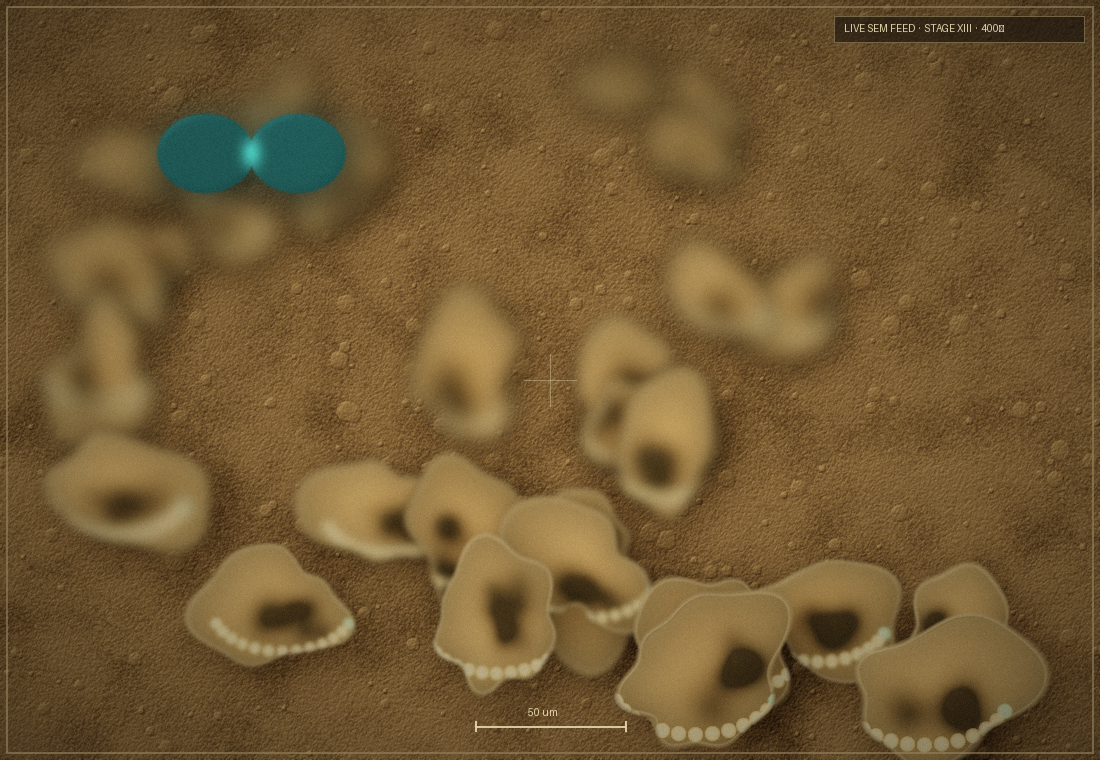
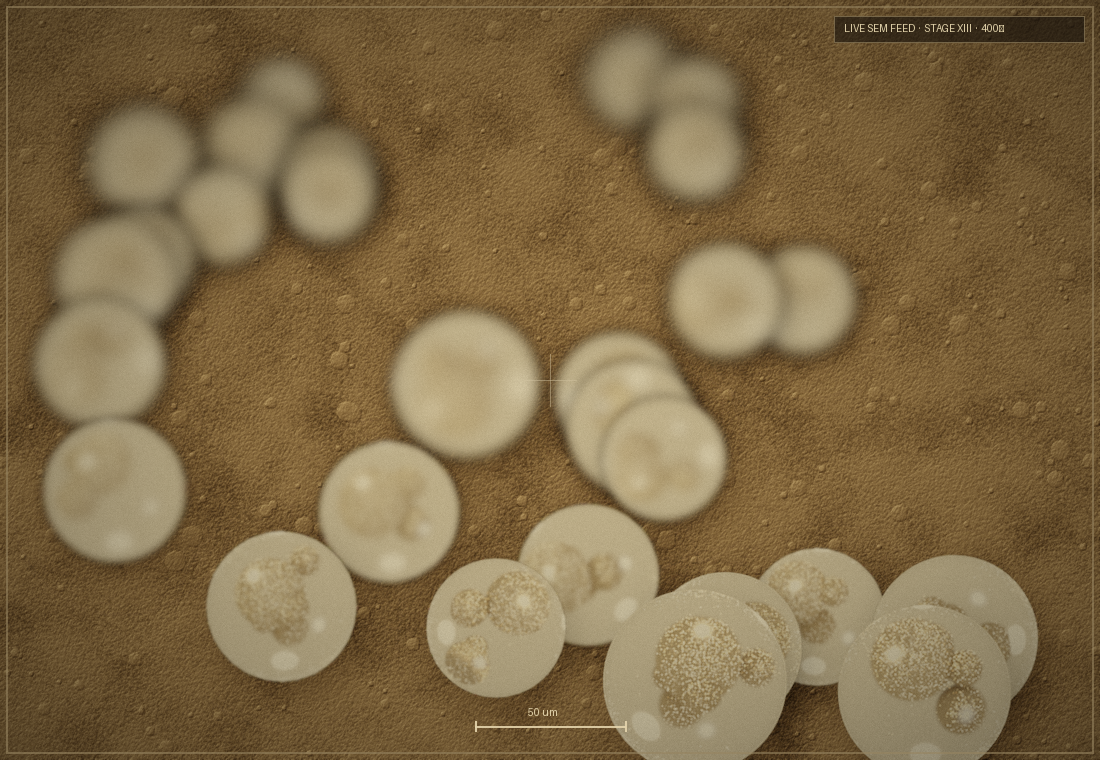
feat(v5.0): photoreal cells via path-traced sprite atlas (2.5D billboards)
Closes the gap to the reference plate using a pre-rendered-sprite pipeline:
expensive offline render quality, cheap live compositing.

- tools/bake_life_sprites.py: offline Mitsuba 3 bake. Path-traces translucent
  organisms — a rough-dielectric shell over a dense high-albedo scattering
  medium (genuine subsurface scattering) + diffuse nucleus/organelles, under a
  warm 3-point directional rig and dim ambient env, with a separate emissive
  mask pass for a clean alpha cutout. Writes a committed sprite atlas.
- cellauto/assets/life/: committed photoreal sprite atlas (12 cells + teal
  divider + manifest) — the runtime ships these PNGs.
- cellauto/rules/abiogenesis/life_sprites.py: PIL-ONLY live compositor. Blits
  the atlas at organism positions (rotate by heading, scale by energy, depth
  sort + contact shadows + depth-of-field), warm filmic grade, teal dividing
  cell. phase animates rotation/scale so the feed is alive. NO Mitsuba/GPU at
  runtime.
- render_sem now prefers the sprite compositor and falls back to the
  procedural life_sem renderer if the atlas is absent.
- preview regenerated; package-data ships assets/life/*.

Result: genuinely photoreal translucent cells (real SSS) live in the desktop
app. Gates green: ruff, format, mypy, pytest (1 skip), coverage 83%.

diff --git a/tools/bake_life_sprites.py b/tools/bake_life_sprites.py
@@ -1,0 +1,128 @@
+"""Offline bake of photoreal Stage XIII cell sprites with Mitsuba 3.
+
+Path-traces translucent single-celled organisms (rough-dielectric shell over a
+dense, high-albedo scattering medium → genuine subsurface scattering, with a
+diffuse nucleus + organelles) under a warm three-point directional rig plus a
+dim ambient environment. A separate emissive mask pass gives a clean alpha
+cutout. The result is a committed sprite atlas (``cellauto/assets/life/``) that
+the live app composites with plain Pillow — so the *runtime* has NO Mitsuba /
+GPU dependency; only this bake does.
+
+This is the "2.5D billboard" pipeline: expensive offline render quality,
+cheap live compositing (see ``cellauto/rules/abiogenesis/life_sprites.py``).
+
+Run:  python tools/bake_life_sprites.py [--cells 12] [--size 384] [--spp 224]
+Requires:  pip install mitsuba   (bake-time only)
+"""
+
+from __future__ import annotations
+
+import argparse
+import random
+from pathlib import Path
+
+import numpy as np
+from PIL import Image, ImageFilter
+
+ASSETS = Path(__file__).resolve().parent.parent / "cellauto" / "assets" / "life"
+
+
+def _gblur(a: np.ndarray, radius: float) -> np.ndarray:
+    if radius <= 0:
+        return a.astype(np.float32)
+    im = Image.fromarray(np.clip(a, 0, 255).astype(np.uint8))
+    return np.asarray(im.filter(ImageFilter.GaussianBlur(radius)), np.float32)
+
+
+def _lights(mi, T):
+    return {
+        "key": {"type": "directional", "direction": [3.2, -4.0, -2.5],
+                "irradiance": {"type": "rgb", "value": [7.5, 6.4, 4.6]}},
+        "fill": {"type": "directional", "direction": [-3.5, 2.0, -2.0],
+                 "irradiance": {"type": "rgb", "value": [1.6, 1.9, 2.5]}},
+        "rim": {"type": "directional", "direction": [0.0, -1.5, 3.5],
+                "irradiance": {"type": "rgb", "value": [2.6, 2.6, 2.8]}},
+    }
+
+
+def bake_cell(mi, variant: int, size: int, spp: int, teal: bool = False) -> Image.Image:
+    T = mi.ScalarTransform4f
+    rng = random.Random(variant * 99 + (777 if teal else 1))
+    ax, ay, az = rng.uniform(0.92, 1.06), rng.uniform(1.18, 1.42), rng.uniform(0.82, 0.96)
+    dens = rng.uniform(10.0, 15.0)
+    if teal:
+        tint = [0.35, 0.80, 0.78]
+    else:
+        tint = [rng.uniform(0.93, 0.97), rng.uniform(0.82, 0.88), rng.uniform(0.62, 0.70)]
+    organelles = {}
+    for k in range(rng.randint(2, 4)):
+        organelles[f"org{k}"] = {
+            "type": "sphere", "radius": rng.uniform(0.12, 0.26),
+            "to_world": T.translate([rng.uniform(-0.4, 0.4), rng.uniform(-0.5, 0.5), rng.uniform(-0.1, 0.3)]),
+            "bsdf": {"type": "diffuse", "reflectance": {"type": "rgb", "value": [0.42, 0.33, 0.22]}},
+        }
+    sensor = {"type": "perspective", "fov": 26,
+              "to_world": T.look_at(origin=[0, 0, 7], target=[0, 0, 0], up=[0, 1, 0]),
+              "film": {"type": "hdrfilm", "width": size, "height": size, "rfilter": {"type": "gaussian"}},
+              "sampler": {"type": "independent", "sample_count": spp}}
+    beauty = mi.load_dict({
+        "type": "scene",
+        "integrator": {"type": "path", "max_depth": 14},
+        "sensor": sensor,
+        "env": {"type": "constant", "radiance": {"type": "rgb", "value": [0.55, 0.48, 0.36]}},
+        "cell": {"type": "sphere", "radius": 1.0, "to_world": T.scale([ax, ay, az]),
+                 "bsdf": {"type": "roughdielectric", "int_ior": 1.35, "ext_ior": 1.0, "alpha": 0.07},
+                 "interior": {"type": "homogeneous", "albedo": {"type": "rgb", "value": tint}, "sigma_t": dens}},
+        "nucleus": {"type": "sphere", "radius": rng.uniform(0.30, 0.40),
+                    "to_world": T.translate([rng.uniform(-0.3, -0.1), rng.uniform(0.1, 0.3), 0.12]),
+                    "bsdf": {"type": "diffuse", "reflectance": {"type": "rgb", "value": [0.5, 0.4, 0.27]}}},
+        **organelles, **_lights(mi, T),
+    })
+    col = np.array(mi.render(beauty, spp=spp))[..., :3]
+    mask_scene = mi.load_dict({
+        "type": "scene",
+        "integrator": {"type": "path", "max_depth": 2},
+        "sensor": {**sensor, "sampler": {"type": "independent", "sample_count": 32}},
+        "cell": {"type": "sphere", "radius": 1.0, "to_world": T.scale([ax, ay, az]),
+                 "emitter": {"type": "area", "radiance": {"type": "rgb", "value": [1, 1, 1]}}},
+    })
+    m = np.array(mi.render(mask_scene, spp=32))[..., :3].mean(axis=2)
+    alpha = np.clip(m * 1.4, 0, 1)
+    rgb = _gblur((np.clip(col, 0, 1) ** (1 / 2.2)) * 255.0, 0.6)
+    out = np.dstack([np.clip(rgb, 0, 255), alpha * 255]).astype(np.uint8)
+    return Image.fromarray(out, "RGBA")
+
+
+def main() -> None:
+    ap = argparse.ArgumentParser()
+    ap.add_argument("--cells", type=int, default=12)
+    ap.add_argument("--size", type=int, default=384)
+    ap.add_argument("--spp", type=int, default=224)
+    ap.add_argument("--tile", type=int, default=256)
+    args = ap.parse_args()
+
+    import mitsuba as mi
+
+    mi.set_variant("scalar_rgb")
+    ASSETS.mkdir(parents=True, exist_ok=True)
+
+    cols = 4
+    rows = (args.cells + cols - 1) // cols
+    tile = args.tile
+    sheet = Image.new("RGBA", (cols * tile, rows * tile), (0, 0, 0, 0))
+    for v in range(args.cells):
+        spr = bake_cell(mi, v, args.size, args.spp).resize((tile, tile), Image.LANCZOS)
+        sheet.alpha_composite(spr, ((v % cols) * tile, (v // cols) * tile))
+        print(f"baked cell {v + 1}/{args.cells}")
+    sheet.save(ASSETS / "cells.png")
+    div = bake_cell(mi, 0, args.size, args.spp, teal=True).resize((tile, tile), Image.LANCZOS)
+    div.save(ASSETS / "cell_div.png")
+    # tiny manifest so the loader knows the grid
+    (ASSETS / "atlas.json").write_text(
+        f'{{"cols": {cols}, "rows": {rows}, "tile": {tile}, "count": {args.cells}}}\n'
+    )
+    print(f"wrote {ASSETS / 'cells.png'} ({cols}x{rows} @ {tile}px) + cell_div.png")
+
+
+if __name__ == "__main__":
+    main()

diff --git a/cellauto/rules/abiogenesis/life_sprites.py b/cellauto/rules/abiogenesis/life_sprites.py
@@ -1,0 +1,121 @@
+"""Live SPRITE compositor for Stage XIII — the runtime half of the 2.5D
+billboard pipeline.
+
+The expensive part (photoreal, path-traced translucent cells with subsurface
+scattering) is baked OFFLINE by ``tools/bake_life_sprites.py`` into a committed
+sprite atlas under ``cellauto/assets/life/``. This module loads that atlas and
+composites the sprites cheaply with plain Pillow — rotated by each organism's
+heading, scaled by its energy, depth-sorted with contact shadows and
+depth-of-field, on the lit granular substrate, finished with a warm filmic
+grade. The one dividing cell uses the teal sprite (the single colour accent).
+
+So the look is genuinely photoreal while the **runtime has no Mitsuba / GPU
+dependency** — it only blits PNGs. ``phase`` (the engine step) drives a gentle
+rotation wobble and scale pulse so the colony reads as alive frame-to-frame,
+on top of the organisms actually moving as the simulation steps.
+
+If the baked atlas is missing (e.g. a source checkout that never ran the bake),
+:func:`load_atlas` raises ``FileNotFoundError`` and the Stage XIII rule falls
+back to the procedural :mod:`life_sem` renderer.
+"""
+
+from __future__ import annotations
+
+import json
+import math
+from functools import lru_cache
+from pathlib import Path
+from typing import Any
+
+import numpy as np
+from PIL import Image, ImageFilter
+
+from cellauto.rules.abiogenesis import life_sem as _ls
+
+_ASSETS = Path(__file__).resolve().parents[2] / "assets" / "life"
+
+
+@lru_cache(maxsize=1)
+def load_atlas() -> tuple[list[Image.Image], Image.Image]:
+    """Load and slice the committed sprite atlas (cached). Returns the list of
+    cell sprites and the teal division sprite. Raises ``FileNotFoundError`` if
+    the bake hasn't been run."""
+    sheet_path = _ASSETS / "cells.png"
+    meta_path = _ASSETS / "atlas.json"
+    div_path = _ASSETS / "cell_div.png"
+    if not (sheet_path.exists() and meta_path.exists() and div_path.exists()):
+        raise FileNotFoundError(f"Stage XIII sprite atlas not found in {_ASSETS}")
+    meta = json.loads(meta_path.read_text())
+    cols, tile, count = meta["cols"], meta["tile"], meta["count"]
+    sheet = Image.open(sheet_path).convert("RGBA")
+    cells = []
+    for i in range(count):
+        x, y = (i % cols) * tile, (i // cols) * tile
+        cells.append(sheet.crop((x, y, x + tile, y + tile)))
+    return cells, Image.open(div_path).convert("RGBA")
+
+
+def render(
+    state: Any,
+    rule: Any,
+    width: int = 600,
+    height: int = 600,
+    max_org: int = 28,
+    seed: int = 0,
+    phase: float = 0.0,
+) -> np.ndarray:
+    """Composite the live population from the baked photoreal sprite atlas.
+    Returns an ``(height, width, 3)`` uint8 array. Raises ``FileNotFoundError``
+    (via :func:`load_atlas`) if the atlas is absent so the caller can fall back."""
+    cells, div_sprite = load_atlas()
+    rng = np.random.RandomState(seed & 0x7FFFFFFF)
+    sub = _ls._substrate(width, height, rng)
+    canvas = Image.fromarray(np.clip(sub, 0, 255).astype(np.uint8), "RGB").convert("RGBA")
+    gh, gw = state.substrate.shape
+    base_r = min(width, height) * 0.085
+    orgs = sorted(state.organisms.values(), key=lambda o: -o.energy)[:max_org]
+    div_oid = max(orgs, key=lambda o: (o.n_divisions, o.energy)).oid if orgs else None
+    margin = 0.09
+    placed = []
+    for o in orgs:
+        depth = o.y / max(1, gh - 1)
+        cx = (margin + (1 - 2 * margin) * (o.x / max(1, gw - 1))) * width
+        cy = (margin + (1 - 2 * margin) * depth) * height
+        ef = min(o.energy / max(rule.e_div, 1e-6), 1.6)
+        r = base_r * (0.7 + 0.5 * depth) * (0.85 + 0.35 * ef)
+        placed.append((depth, o, cx, cy, r))
+    placed.sort(key=lambda t: t[0])  # far -> near
+    for depth, o, cx, cy, r in placed:
+        if o.oid == div_oid:
+            spr = div_sprite
+            ang = 4.0 * math.sin(phase * 0.2 + o.oid)
+        else:
+            spr = cells[o.oid % len(cells)]
+            ang = o.facing * 45 + 5.0 * math.sin(phase * 0.25 + o.oid)
+        pulse = 1.0 + 0.03 * math.sin(phase * 0.3 + o.oid * 1.7)
+        target = max(8, int(r * 3.0 * pulse))
+        s = spr.resize((target, target), Image.LANCZOS)
+        if abs(ang) > 0.1:
+            s = s.rotate(ang, resample=Image.BICUBIC, expand=True)
+        blur = (1.0 - depth) ** 1.5 * r * 0.30
+        if blur > 0.4:
+            s = s.filter(ImageFilter.GaussianBlur(blur))
+        ox, oy = int(cx - s.width / 2), int(cy - s.height / 2)
+        sh = s.split()[3].filter(ImageFilter.GaussianBlur(r * 0.25))
+        shadow = Image.new("RGBA", s.size, (0, 0, 0, 0))
+        shadow.putalpha(sh.point(lambda v: int(v * 0.40)))
+        canvas.alpha_composite(shadow, (ox + int(r * 0.1), oy + int(r * 0.16)))
+        canvas.alpha_composite(s, (ox, oy))
+    out = np.asarray(canvas.convert("RGB"), np.float32)
+    bright = np.clip(out - 205, 0, 255)
+    out = out + 0.28 * _ls._blur(bright, 6)
+    ln = _ls._aces(out / 255.0 * 0.95) ** 1.05
+    ln[..., 0] *= 1.06
+    ln[..., 2] *= 0.83
+    out = np.clip(ln, 0, 1) * 255
+    yy, xx = np.mgrid[0:height, 0:width].astype(np.float32)
+    vig = 1 - 0.42 * (((xx / width - 0.5) ** 2 + (yy / height - 0.5) ** 2) * 2.0)
+    out *= np.clip(vig, 0.5, 1)[..., None]
+    out += rng.normal(0, 2.6, (height, width, 1)).astype(np.float32)
+    result = Image.fromarray(np.clip(out, 0, 255).astype(np.uint8), "RGB")
+    return np.asarray(_ls._overlay(result), dtype=np.uint8)

diff --git a/cellauto/rules/abiogenesis/stage_life.py b/cellauto/rules/abiogenesis/stage_life.py
@@ -482,20 +482,27 @@ class AbiogenesisStageLife:
         seed: int = 0,
         phase: float = 0.0,
     ) -> np.ndarray:
-        """The "LIVE SEM FEED · 400×" plate — Stage XIII rendered as a 3D
-        scanning-electron-microscope view (see :mod:`life_sem`): each organism
-        is a normal-mapped, lit 3D body (an organic dome + internal organelle
-        relief + surface micro-texture, with SEM edge-brightening, a wet
-        specular and ambient occlusion) on a lit granular sepia substrate, with
-        contact shadows, depth-of-field, bloom and a filmic warm grade. One
-        dividing cell is the single teal accent. ``phase`` (the engine step)
-        animates membranes, cilia and the gut so the feed is alive. Returns an
-        ``(height, width, 3)`` uint8 array."""
+        """The "LIVE SEM FEED · 400×" plate for Stage XIII. Prefers the
+        photoreal SPRITE compositor (:mod:`life_sprites`), which blits a
+        committed atlas of path-traced translucent cells (baked offline by
+        ``tools/bake_life_sprites.py``) — genuine subsurface scattering at zero
+        runtime render cost. If the baked atlas is absent it falls back to the
+        procedural 3D renderer (:mod:`life_sem`): normal-mapped lit bodies with
+        SEM edge-brightening, AO and a filmic grade. Either way one dividing
+        cell is the single teal accent and ``phase`` (the engine step) animates
+        the feed. Returns an ``(height, width, 3)`` uint8 array."""
         from cellauto.rules.abiogenesis import life_sem
 
-        return life_sem.render(
-            state, self, width=width, height=height, max_org=max_org, seed=seed, phase=phase
-        )
+        try:
+            from cellauto.rules.abiogenesis import life_sprites
+
+            return life_sprites.render(
+                state, self, width=width, height=height, max_org=max_org, seed=seed, phase=phase
+            )
+        except (FileNotFoundError, OSError):
+            return life_sem.render(
+                state, self, width=width, height=height, max_org=max_org, seed=seed, phase=phase
+            )
 
     def render_plate(self, state: LifeState, scale: int = 12, max_organisms: int = 60) -> np.ndarray:
         """High-resolution SEM plate sized to ``grid × scale`` — the saved